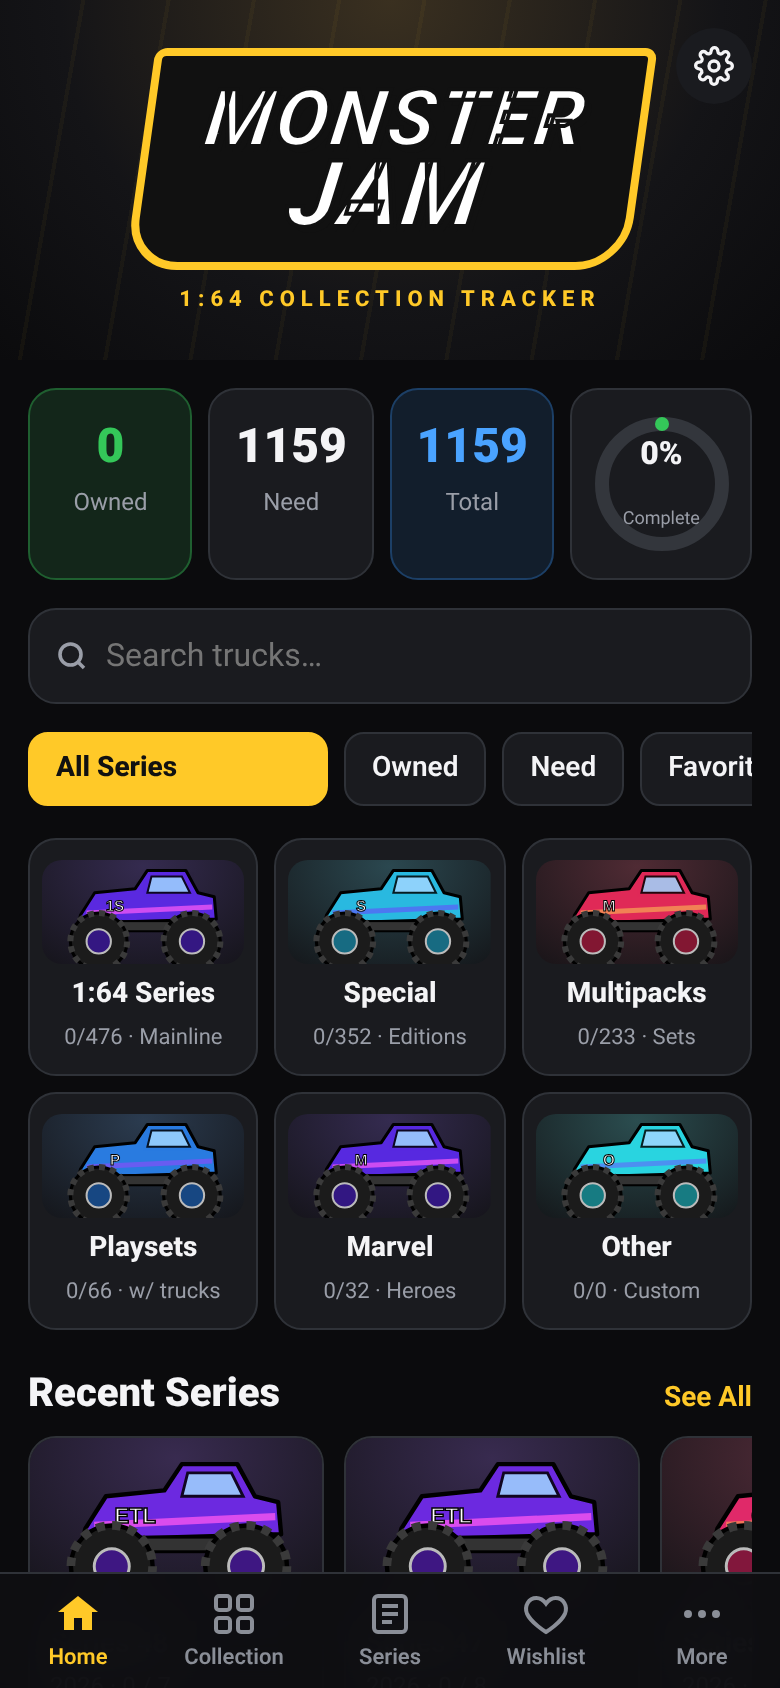
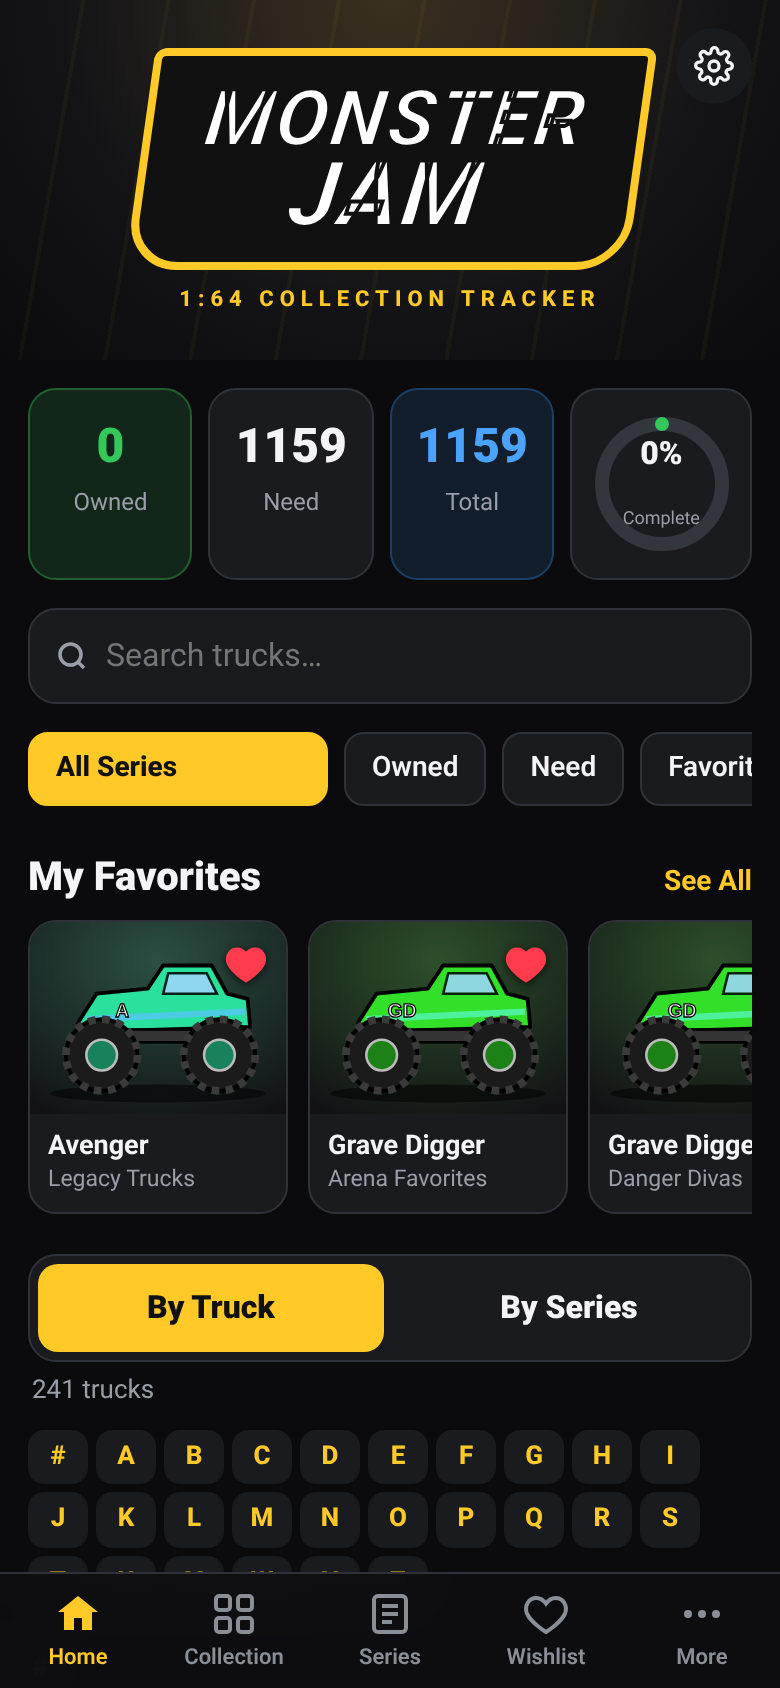
Home: By Truck / By Series switch, truck variations page

Changed region(s): [[0.0308, 0.4929, 0.9846, 0.955]]

diff --git a/index.html b/index.html
@@ -1,7 +1,7 @@
 <!doctype html>
 <html lang="en"><head><meta charset="utf-8">
 <meta name="viewport" content="width=device-width,initial-scale=1,viewport-fit=cover">
-<meta name="app-version" content="mj-redesign-v3">
+<meta name="app-version" content="mj-redesign-v4">
 <title>Monster Jam Tracker</title>
 <meta name="theme-color" content="#0b0b0d">
 <meta name="apple-mobile-web-app-capable" content="yes"><meta name="mobile-web-app-capable" content="yes">
@@ -74,6 +74,7 @@ select.pill{appearance:none;-webkit-appearance:none;padding-right:26px;backgroun
 .prog .bar{height:10px;flex:1;margin:0 10px 0 0}
 .seg{display:grid;grid-template-columns:repeat(3,1fr);gap:6px;margin:0 0 12px}
 .seg button{background:var(--card);border:1px solid var(--line);border-radius:10px;padding:9px 4px;font-weight:700;font-size:14px}
+.seg.big{grid-template-columns:1fr 1fr;margin:16px 0 4px;background:var(--card);padding:4px;border-radius:14px;border:1px solid var(--line)}.seg.big button{border:0;font-size:16px;font-weight:900;padding:11px;background:none}.az{display:flex;flex-wrap:wrap;gap:4px;margin:4px 0}.az button{min-width:30px;padding:5px 6px;border-radius:8px;background:var(--card);font-weight:800;font-size:13px;color:var(--y)}.hrow.wrap{flex-wrap:nowrap}.tcard .nm .bar{height:4px;margin-top:5px}.grid .tcard{content-visibility:auto;contain-intrinsic-size:auto 180px}
 .seg button.on{background:var(--y);color:#111;border-color:var(--y)}
 .dimg{position:relative;margin:0 -14px;aspect-ratio:4/3;background:var(--card2);overflow:hidden}
 .dimg .acts{position:absolute;right:10px;bottom:10px;display:flex;gap:6px}
@@ -1317,7 +1318,7 @@ function migrate(e){
 entries.forEach(migrate);
 localStorage.setItem('smjm_entries',JSON.stringify(entries));
 let byId=new Map();function reindex(){byId=new Map(entries.map(e=>[e.id,e]))}reindex();
-function persist(){localStorage.setItem('smjm_entries',JSON.stringify(entries));reindex()}
+function persist(){_tm=null;localStorage.setItem('smjm_entries',JSON.stringify(entries));reindex()}
 const $=id=>document.getElementById(id);
 function esc(s){return String(s??'').replace(/[&<>"']/g,c=>({'&':'&amp;','<':'&lt;','>':'&gt;','"':'&quot;',"'":'&#39;'}[c]))}
 const norm=s=>String(s||'').toLowerCase();
@@ -1367,10 +1368,10 @@ let pageLimit=60,lastRoute='';
 function go(h){location.hash=h}
 function route(){const h=location.hash.slice(1)||'/';const p=h.split('/').filter(Boolean).map(decodeURIComponent);const r=p[0]||'home';
  if(h!==lastRoute){pageLimit=60;lastRoute=h;window.scrollTo(0,0)}
- let tab=r;if(r==='s')tab='series';if(r==='t'||r==='edit')tab=prevTab||'collection';if(r==='add')tab='more';
+ let tab=r;if(r==='s')tab=prevTab==='home'?'home':'series';if(r==='truck')tab='home';if(r==='t'||r==='edit')tab=prevTab||'collection';if(r==='add')tab='more';
  if(['home','collection','series','wishlist','more'].includes(r))prevTab=r;
  $('tabbar').innerHTML=TABS.map(t=>`<a href="${t[2]}" class="${t[0]===tab?'on':''}">${t[3]}<span>${t[1]}</span></a>`).join('');
- ({home:vHome,collection:vCollection,series:vSeries,s:()=>vSeriesDetail(p[1]),t:()=>vTruck(p[1]),edit:()=>vEdit(p[1]),add:()=>vEdit(null),wishlist:vWishlist,more:vMore}[r]||vHome)(p);
+ ({home:vHome,collection:vCollection,series:vSeries,s:()=>vSeriesDetail(p[1]),t:()=>vTruck(p[1]),truck:()=>vTruckModel(p[1]),edit:()=>vEdit(p[1]),add:()=>vEdit(null),wishlist:vWishlist,more:vMore}[r]||vHome)(p);
  observeMore();
 }
 let prevTab='home';
@@ -1385,17 +1386,50 @@ let io;function observeMore(){if(io)io.disconnect();const b=$('loadMore');if(!b|
 function loadMore(){const y=window.scrollY;pageLimit+=60;route();window.scrollTo(0,y)}
 function ringSVG(p){const r=30,c=2*Math.PI*r;return `<svg viewBox="0 0 70 70"><circle cx="35" cy="35" r="${r}" fill="none" stroke="#33363c" stroke-width="7"/><circle cx="35" cy="35" r="${r}" fill="none" stroke="var(--g)" stroke-width="7" stroke-linecap="round" stroke-dasharray="${c*p/100} ${c}" transform="rotate(-90 35 35)"/></svg>`}
 // ===== Views =====
-function vHome(){const v=visible(),own=v.filter(e=>e.owned).length,pct=v.length?Math.round(own/v.length*100):0;const sl=seriesList();
- const recent=sl.filter(s=>catOf(s.items[0])==='series').slice(0,10);const favs=v.filter(e=>e.favorite).slice(0,20);
+// ===== Truck-model grouping =====
+const ALIAS={graverdigger:'',gravedigger1:'Grave Digger',gravedigger25thanniversary:'Grave Digger',gravedigger40thanniversary:'Grave Digger',gravediggerblondetothebone:'Grave Digger',
+ avenger25thanniversary:'Avenger',maxd20thanniversary:'Max-D',maximumdestruction:'Max-D',earthshaker:'Earth Shaker',thunderroarus:'ThunderROARus',freebird:'FreeBird',
+ hurricanforce:'Hurricane Force',monsermuttdalmatian:'Monster Mutt Dalmatian',mysteymachine:'Mystery Machine',w:'W (Whiplash)',wwhiplash:'W (Whiplash)',
+ mohawkwarrior:'Great Clips Mohawk Warrior',greatclipsmohawkwarriorvampire:'Great Clips Mohawk Warrior',scoops:'Scoopz',piratescurseghost:"Pirate's Curse",bigtooth:'Big Tooth'};
+function canon(part){let p=part.trim().replace(/\s+(Fire|Ice)$/,'');const k=normK(p);if(ALIAS[k])return ALIAS[k];
+ const k2=normK(p.replace(/\s*\([^)]*\)\s*/g,' '));if(ALIAS[k2])return ALIAS[k2];
+ if(/\(.*\)/.test(p)&&!/^W \(/.test(p))p=p.replace(/\s*\([^)]*\)\s*/g,' ').trim();return p}
+function truckNames(e){const nm=String(e.name||'');if(!nm)return[];return [...new Set(nm.split(/\s+vs\.?\s+|\//i).map(canon).filter(Boolean))]}
+var _tm=null,_tmSig='';
+function truckModels(){const sig=entries.length+':'+entries.filter(e=>e.hidden).length+':'+entries.map(e=>e.owned?1:0).join('').length+':'+entries.reduce((a,e)=>a+(e.owned?1:0),0);
+ if(_tm&&_tmSig===sig)return _tm;const m=new Map();visible().forEach(e=>truckNames(e).forEach(n=>{const k=normK(n);let t=m.get(k);if(!t)m.set(k,t={key:k,name:n,items:[]});t.items.push(e)}));
+ m.forEach(t=>t.owned=t.items.filter(e=>e.owned).length);_tmSig=sig;return _tm=[...m.values()].sort((a,b)=>a.name.localeCompare(b.name,undefined,{sensitivity:'base'}))}
+function modelCard(t){const f=t.items.find(e=>photos.has(e.id));const pct=Math.round(t.owned/t.items.length*100);
+ return `<a class="tcard ${t.owned===t.items.length?'own':''}" href="#/truck/${encodeURIComponent(t.key)}"><div class="img">${f?art(f):truckSVG(t.name)}</div>${t.owned===t.items.length?`<span class="chk">${I.check}</span>`:''}<div class="nm"><b>${esc(t.name)}</b><small>${t.owned} / ${t.items.length} owned</small><div class="bar"><i style="width:${pct}%"></i></div></div></a>`}
+let homeMode=localStorage.getItem('smjm_home_mode')||'truck',homeQ='';
+function vHome(){const v=visible(),own=v.filter(e=>e.owned).length,pct=v.length?Math.round(own/v.length*100):0;const sl=seriesList();const favs=v.filter(e=>e.favorite).slice(0,20);
  app.innerHTML=`<div class="hero"><button class="iconbtn" data-go="#/more" aria-label="Settings">${I.gear}</button><div class="wordmark"><span>MONSTER</span><span>JAM</span></div><div class="sub">1:64 COLLECTION TRACKER</div></div>
  <div class="stats"><div class="tile g" data-go="#/collection" data-own="owned"><b>${own}</b><small>Owned</small></div><div class="tile" data-go="#/collection" data-own="need"><b>${v.length-own}</b><small>Need</small></div><div class="tile bl" data-go="#/collection" data-own=""><b>${v.length}</b><small>Total</small></div><div class="tile ring">${ringSVG(pct)}<div><b>${pct}%</b><br><small>Complete</small></div></div></div>
- <form class="search" id="homeSearch">${I.search}<input id="hq" type="search" placeholder="Search trucks…" enterkeyhint="search"></form>
+ <form class="search" id="homeSearch">${I.search}<input id="hq" type="search" placeholder="${homeMode==='truck'?'Search trucks…':'Search series…'}" enterkeyhint="search" value="${esc(homeQ)}"></form>
  <div class="pills"><select class="pill on" id="hseries"><option value="">All Series</option>${sl.map(s=>`<option value="${esc(s.key)}">${esc(s.year+' · '+s.name)}</option>`).join('')}</select><button class="pill" data-go="#/collection" data-own="owned">Owned</button><button class="pill" data-go="#/collection" data-own="need">Need</button><button class="pill" data-go="#/collection" data-favf="1">Favorites</button></div>
- <div class="cats">${CATS.map(c=>{const n=v.filter(e=>catOf(e)===c[0]);return `<button class="cat" data-go="#/collection" data-cat="${c[0]}"><div class="ph">${truckSVG(c[1])}</div><b>${c[1]}</b><small>${n.filter(e=>e.owned).length}/${n.length} · ${c[2]}</small></button>`}).join('')}</div>
- <div class="sect"><h2>Recent Series</h2><a href="#/series">See All</a></div><div class="hrow">${recent.map(scard).join('')}</div>
- <div class="sect"><h2>My Favorites</h2><a href="#/wishlist">See All</a></div>${favs.length?`<div class="hrow">${favs.map(e=>`<div style="flex:none;width:140px">${tcard(e)}</div>`).join('')}</div>`:`<div class="panel note">Tap the ♡ on any truck to add it here.</div>`}`;
- $('homeSearch').onsubmit=ev=>{ev.preventDefault();cstate={q:$('hq').value,cat:'',own:'',fav:false,series:''};go('#/collection')};
+ ${favs.length?`<div class="sect"><h2>My Favorites</h2><a href="#/wishlist">See All</a></div><div class="hrow">${favs.map(e=>`<div style="flex:none;width:130px">${tcard(e)}</div>`).join('')}</div>`:''}
+ <div class="seg big" id="modeSeg"><button class="${homeMode==='truck'?'on':''}" data-mode="truck">By Truck</button><button class="${homeMode==='series'?'on':''}" data-mode="series">By Series</button></div>
+ <div id="hres"></div>`;
+ const draw=()=>{const q=norm(homeQ).trim();let h='';
+  if(homeMode==='truck'){const tm=truckModels().filter(t=>!q||norm(t.name).includes(q));const L=[...new Set(tm.map(t=>/[a-z]/i.test(t.name[0])?t.name[0].toUpperCase():'#'))];
+   h=`<div class="count">${tm.length} trucks</div><div class="az">${L.map(l=>`<button data-az="${l}">${l}</button>`).join('')}</div>`;let cur='';
+   tm.forEach(t=>{const l=/[a-z]/i.test(t.name[0])?t.name[0].toUpperCase():'#';if(l!==cur){if(cur)h+='</div>';cur=l;h+=`<div class="yearh" id="az-${l}">${l}</div><div class="grid">`}h+=modelCard(t)});if(cur)h+='</div>';if(!tm.length)h+='<div class="empty">No trucks match.</div>'}
+  else{let yr='';sl.filter(s=>!q||norm(s.name+' '+s.year).includes(q)).forEach(s=>{if(s.year!==yr){if(yr)h+='</div>';yr=s.year;h+=`<div class="yearh">${yr}</div><div class="hrow wrap">`}h+=scard(s)});if(yr)h+='</div>';if(!h)h='<div class="empty">No series match.</div>'}
+  $('hres').innerHTML=h};draw();
+ $('hq').oninput=ev=>{homeQ=ev.target.value;draw()};
+ $('homeSearch').onsubmit=ev=>{ev.preventDefault();$('hq').blur()};
  $('hseries').onchange=ev=>{if(ev.target.value)go('#/s/'+encodeURIComponent(ev.target.value))};
+}
+let tvTab='all';
+function vTruckModel(key){const t=truckModels().find(x=>x.key===key);if(!t){app.innerHTML=topBar('Truck')+'<div class="empty">Truck not found.</div>';return}
+ if(vTruckModel.k!==key){tvTab='all';vTruckModel.k=key}const n=t.items.length,pct=Math.round(t.owned/n*100);
+ const list=t.items.filter(e=>tvTab==='all'||(tvTab==='owned'?e.owned:!e.owned));const g=new Map();list.forEach(e=>{const k=skey(e);if(!g.has(k))g.set(k,{year:e.year,name:e.series||e.type,items:[]});g.get(k).items.push(e)});
+ const num=s=>{const x=/(\d+)/.exec(s);return x?+x[1]:-1};const groups=[...g.values()].sort((a,b)=>b.year-a.year||num(b.name)-num(a.name)||a.name.localeCompare(b.name));
+ const sub=e=>{const bits=[];if(normK(e.name)!==normK(t.name))bits.push(e.name);if(e.variant)bits.push(e.variant);if(!bits.length)bits.push(e.type);return bits.join(' · ')};
+ app.innerHTML=topBar(t.name)+`<div class="banner"><div class="ghost">${truckSVG(t.name)}</div><div><div class="bt">${esc(t.name)}</div><small>${n} VERSIONS · ${groups.length} SERIES & SETS</small></div></div>
+ <div class="prog"><div class="row"><div><b>${t.owned} / ${n}</b> <span style="color:var(--muted)">Collected</span></div></div><div class="row" style="margin-top:6px"><div class="bar"><i style="width:${pct}%"></i></div><b style="font-size:15px">${pct}%</b></div></div>
+ <div class="seg">${[['all','All',n],['owned','Owned',t.owned],['need','Need',n-t.owned]].map(x=>`<button class="${tvTab===x[0]?'on':''}" data-tv="${x[0]}">${x[1]} (${x[2]})</button>`).join('')}</div>`+
+ (groups.length?groups.map(s=>`<div class="yearh">${esc(s.name)} · ${esc(s.year)} <span style="color:var(--muted);font-weight:600">${s.items.filter(e=>e.owned).length}/${s.items.length}</span></div><div class="grid">${s.items.map(e=>tcard(e).replace(/<small>[^<]*<\/small>/,`<small>${esc(sub(e))}</small>`)).join('')}</div>`).join(''):`<div class="empty">${tvTab==='owned'?'None owned yet.':'You have them all! 🎉'}</div>`);
 }
 function filterList(){const q=norm(cstate.q).trim();return visible().filter(e=>(!q||[e.name,e.series,e.variant,e.notes,e.type,e.year].some(s=>norm(s).includes(q)))&&(!cstate.cat||catOf(e)===cstate.cat)&&(!cstate.own||(cstate.own==='owned'?e.owned:!e.owned))&&(!cstate.fav||e.favorite)&&(!cstate.series||skey(e)===cstate.series))}
 function vCollection(){const sl=seriesList();
@@ -1464,10 +1498,13 @@ function vMore(){const hidden=entries.filter(e=>e.hidden);const v=visible();cons
 }
 // ===== Actions (delegated) =====
 function download(name,data,type){let a=document.createElement('a');a.href=URL.createObjectURL(new Blob([data],{type}));a.download=name;document.body.appendChild(a);a.click();a.remove();setTimeout(()=>URL.revokeObjectURL(a.href),1000)}
-document.addEventListener('click',ev=>{const t=ev.target.closest('[data-fav],[data-act],[data-go],[data-seg],[data-cown],[data-cfav],[data-ccat],[data-restore]');if(!t)return;
+document.addEventListener('click',ev=>{const t=ev.target.closest('[data-fav],[data-act],[data-go],[data-seg],[data-mode],[data-tv],[data-az],[data-cown],[data-cfav],[data-ccat],[data-restore]');if(!t)return;
  const d=t.dataset;
  if(d.fav){ev.preventDefault();ev.stopPropagation();const e=byId.get(d.fav);e.favorite=!e.favorite;persist();const y=scrollY;route();scrollTo(0,y);toast(e.favorite?'Added to favorites':'Removed from favorites');return}
  if(d.go){if(d.own!==undefined||d.cat||d.favf)cstate={q:'',cat:d.cat||'',own:d.own||'',fav:!!d.favf,series:''};go(d.go);return}
+ if(d.mode){homeMode=d.mode;localStorage.setItem('smjm_home_mode',homeMode);route();return}
+ if(d.tv){tvTab=d.tv;route();return}
+ if(d.az){const x=document.getElementById('az-'+d.az);if(x)scrollTo(0,x.getBoundingClientRect().top+scrollY-10);return}
  if(d.seg){segTab=d.seg;route();return}
  if(d.cown!==undefined){cstate.own=d.cown;route();return}
  if(d.cfav!==undefined){cstate.fav=!cstate.fav;route();return}

diff --git a/sw.js b/sw.js
@@ -1,4 +1,4 @@
-const C='mjt-v3',ASSETS=['./','index.html','manifest.json','icon-192.png','icon-512.png','apple-touch-icon.png'];
+const C='mjt-v4',ASSETS=['./','index.html','manifest.json','icon-192.png','icon-512.png','apple-touch-icon.png'];
 self.addEventListener('install',e=>{e.waitUntil(caches.open(C).then(c=>c.addAll(ASSETS)));self.skipWaiting()});
 self.addEventListener('activate',e=>{e.waitUntil(caches.keys().then(k=>Promise.all(k.filter(x=>x!==C).map(x=>caches.delete(x)))).then(()=>self.clients.claim()))});
 // network-first so updates show up; fall back to cache offline
